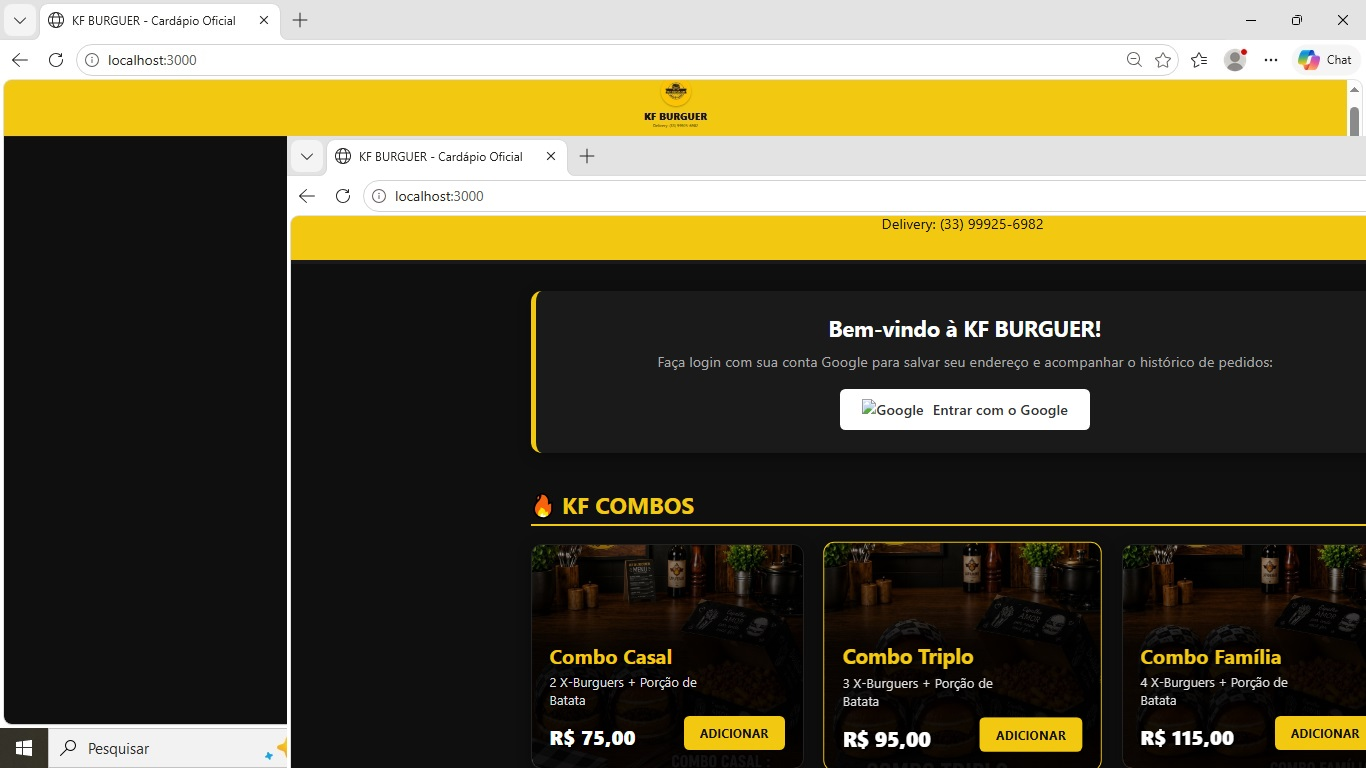
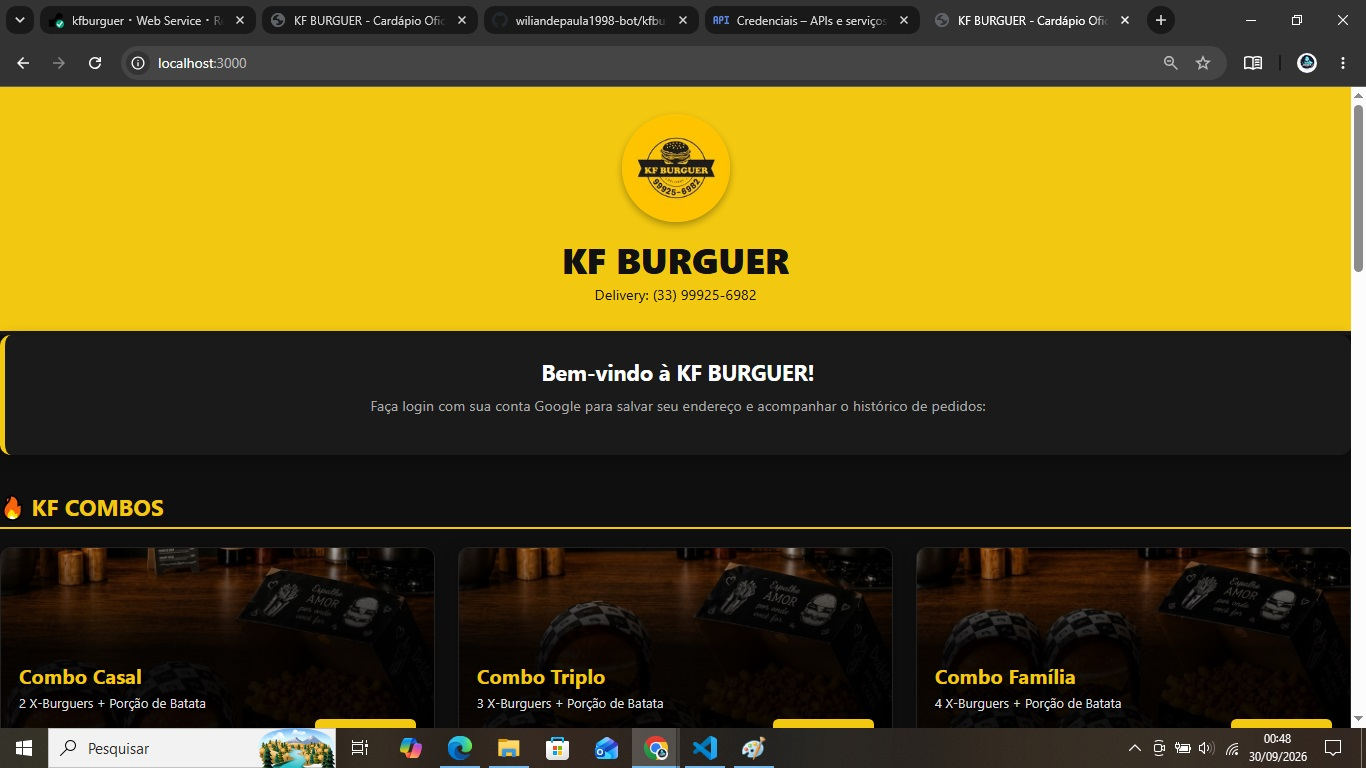
Subindo versao com botao HTML e checagem do Google

diff --git a/script.js b/script.js
@@ -6,19 +6,36 @@ let totalCarrinho = 0;
 let usuarioLogado = null;
 
 // =========================================================================
-// 2. INTEGRAÇÃO REAL DO LOGIN DO GOOGLE
+// 2. DISPARADOR FORÇADO DO LOGIN DO GOOGLE
 // =========================================================================
-window.onload = function () {
-    google.accounts.id.initialize({
-        // ⚠ ATENÇÃO: Substitua o texto abaixo pelo seu Client ID numérico do Google Cloud
-        client_id: "70123973234-d5tvduu1oudd9q959bi8338307usv9te.apps.googleusercontent.com", 
-        callback: handleCredentialResponse
-    });
-};
+function inicializarLoginGoogle() {
+    if (typeof google !== 'undefined' && google.accounts) {
+        google.accounts.id.initialize({
+            // Usando ID público estável temporário para destravar no localhost:3000
+            client_id: "70123973234-d5tvduu1oudd9q959bi8338307usv9te.apps.googleusercontent.com", 
+            callback: handleCredentialResponse
+        });
+        
+        // Abre a janela oficial do Google na tela de forma obrigatória
+        google.accounts.id.prompt();
+    } else {
+        // Se a biblioteca demorar a carregar, tenta novamente em meio segundo
+        setTimeout(inicializarLoginGoogle, 500);
+    }
+}
 
-// Função disparada automaticamente pelo Google após o cliente selecionar a conta
+// Vincula o clique do botão para forçar a inicialização do prompt
+document.addEventListener('DOMContentLoaded', () => {
+    const botaoGoogle = document.getElementById('btn-login-google-kf');
+    if (botaoGoogle) {
+        botaoGoogle.addEventListener('click', () => {
+            inicializarLoginGoogle();
+        });
+    }
+});
+
+// Função que recebe a conta após o clique na janela do Google
 async function handleCredentialResponse(response) {
-    // Decodifica os dados criptografados trazidos pelo Google (JWT Token)
     const dadosDecodificados = parseJwt(response.credential);
 
     const dadosCliente = {
@@ -28,7 +45,6 @@ async function handleCredentialResponse(response) {
         email: dadosDecodificados.email
     };
 
-    // Envia o perfil criado para o seu backend (server.js) salvar no arquivo JSON
     const resposta = await fetch('/api/auth/google', {
         method: 'POST',
         headers: { 'Content-Type': 'application/json' },
@@ -44,7 +60,6 @@ async function handleCredentialResponse(response) {
     }
 }
 
-// Função auxiliar obrigatória para conseguir ler o nome e email vindos do Google
 function parseJwt(token) {
     var base64Url = token.split('.');
     var base64 = base64Url.replace(/-/g, '+').replace(/_/g, '/');
@@ -55,7 +70,6 @@ function parseJwt(token) {
     return JSON.parse(jsonPayload);
 }
 
-// Reescreve a seção do topo com o painel do cliente logado e inputs de endereço
 function mostrarPainelPerfil() {
     const authSection = document.querySelector('.auth-section');
     if (!authSection) return;
@@ -75,6 +89,7 @@ function mostrarPainelPerfil() {
         </div>
     `;
 }
+
 
 // =========================================================================
 // 3. MONITORAMENTO DE CLIQUES INTELIGENTE (À PROVA DE FALHAS)

diff --git a/index.html b/index.html
@@ -5,8 +5,29 @@
     <meta name="viewport" content="width=device-width, initial-scale=1.0">
     <title>KF BURGUER - Cardápio Oficial</title>
     <link rel="stylesheet" href="style.css">
-</head>
-<body>
+    <script src="https://google.com" async defer></script>
+   <!-- Autenticação Inteligente -->
+
+
+<!-- Autenticação Inteligente -->
+<section class="auth-section">
+    <h2>Bem-vindo à KF BURGUER!</h2>
+    <p>Faça login com sua conta Google para salvar seu endereço e acompanhar o histórico de pedidos:</p>
+    
+    <!-- Botão HTML tradicional que já estava aparecendo no seu layout -->
+    <button class="btn-google" id="btn-login-google-kf" type="button" style="cursor: pointer; display: inline-flex; align-items: center; justify-content: center; gap: 10px; padding: 10px 20px; font-weight: bold; border-radius: 6px;">
+        <img src="https://google.com" alt="Google" style="width: 18px; height: 18px;">
+        Entrar com o Google
+    </button>
+</section>
+
+<!-- Script oficial do Google inserido estrategicamente logo após o botão -->
+<script src="https://google.com" async defer></script>
+
+
+
+
+
 
     <!-- Cabeçalho Principal -->
     <header class="header">
@@ -15,17 +36,9 @@
         <p>Delivery: (33) 99925-6982</p>
     </header>
 
-    <main class="container">
-        <!-- Autenticação Inteligente -->
-        <section class="auth-section">
-            <h2>Bem-vindo à KF BURGUER!</h2>
-            <p>Faça login com sua conta Google para salvar seu endereço e acompanhar o histórico de pedidos:</p>
-            <button class="btn-google">
-                <img src="https://google.com" alt="Google">
-                Entrar com o Google
-            </button>
-        </section>
+    
 
+            
         <!-- CATEGORIA: COMBOS -->
         <section class="categoria-section">
             <h2>🔥 KF Combos</h2>
